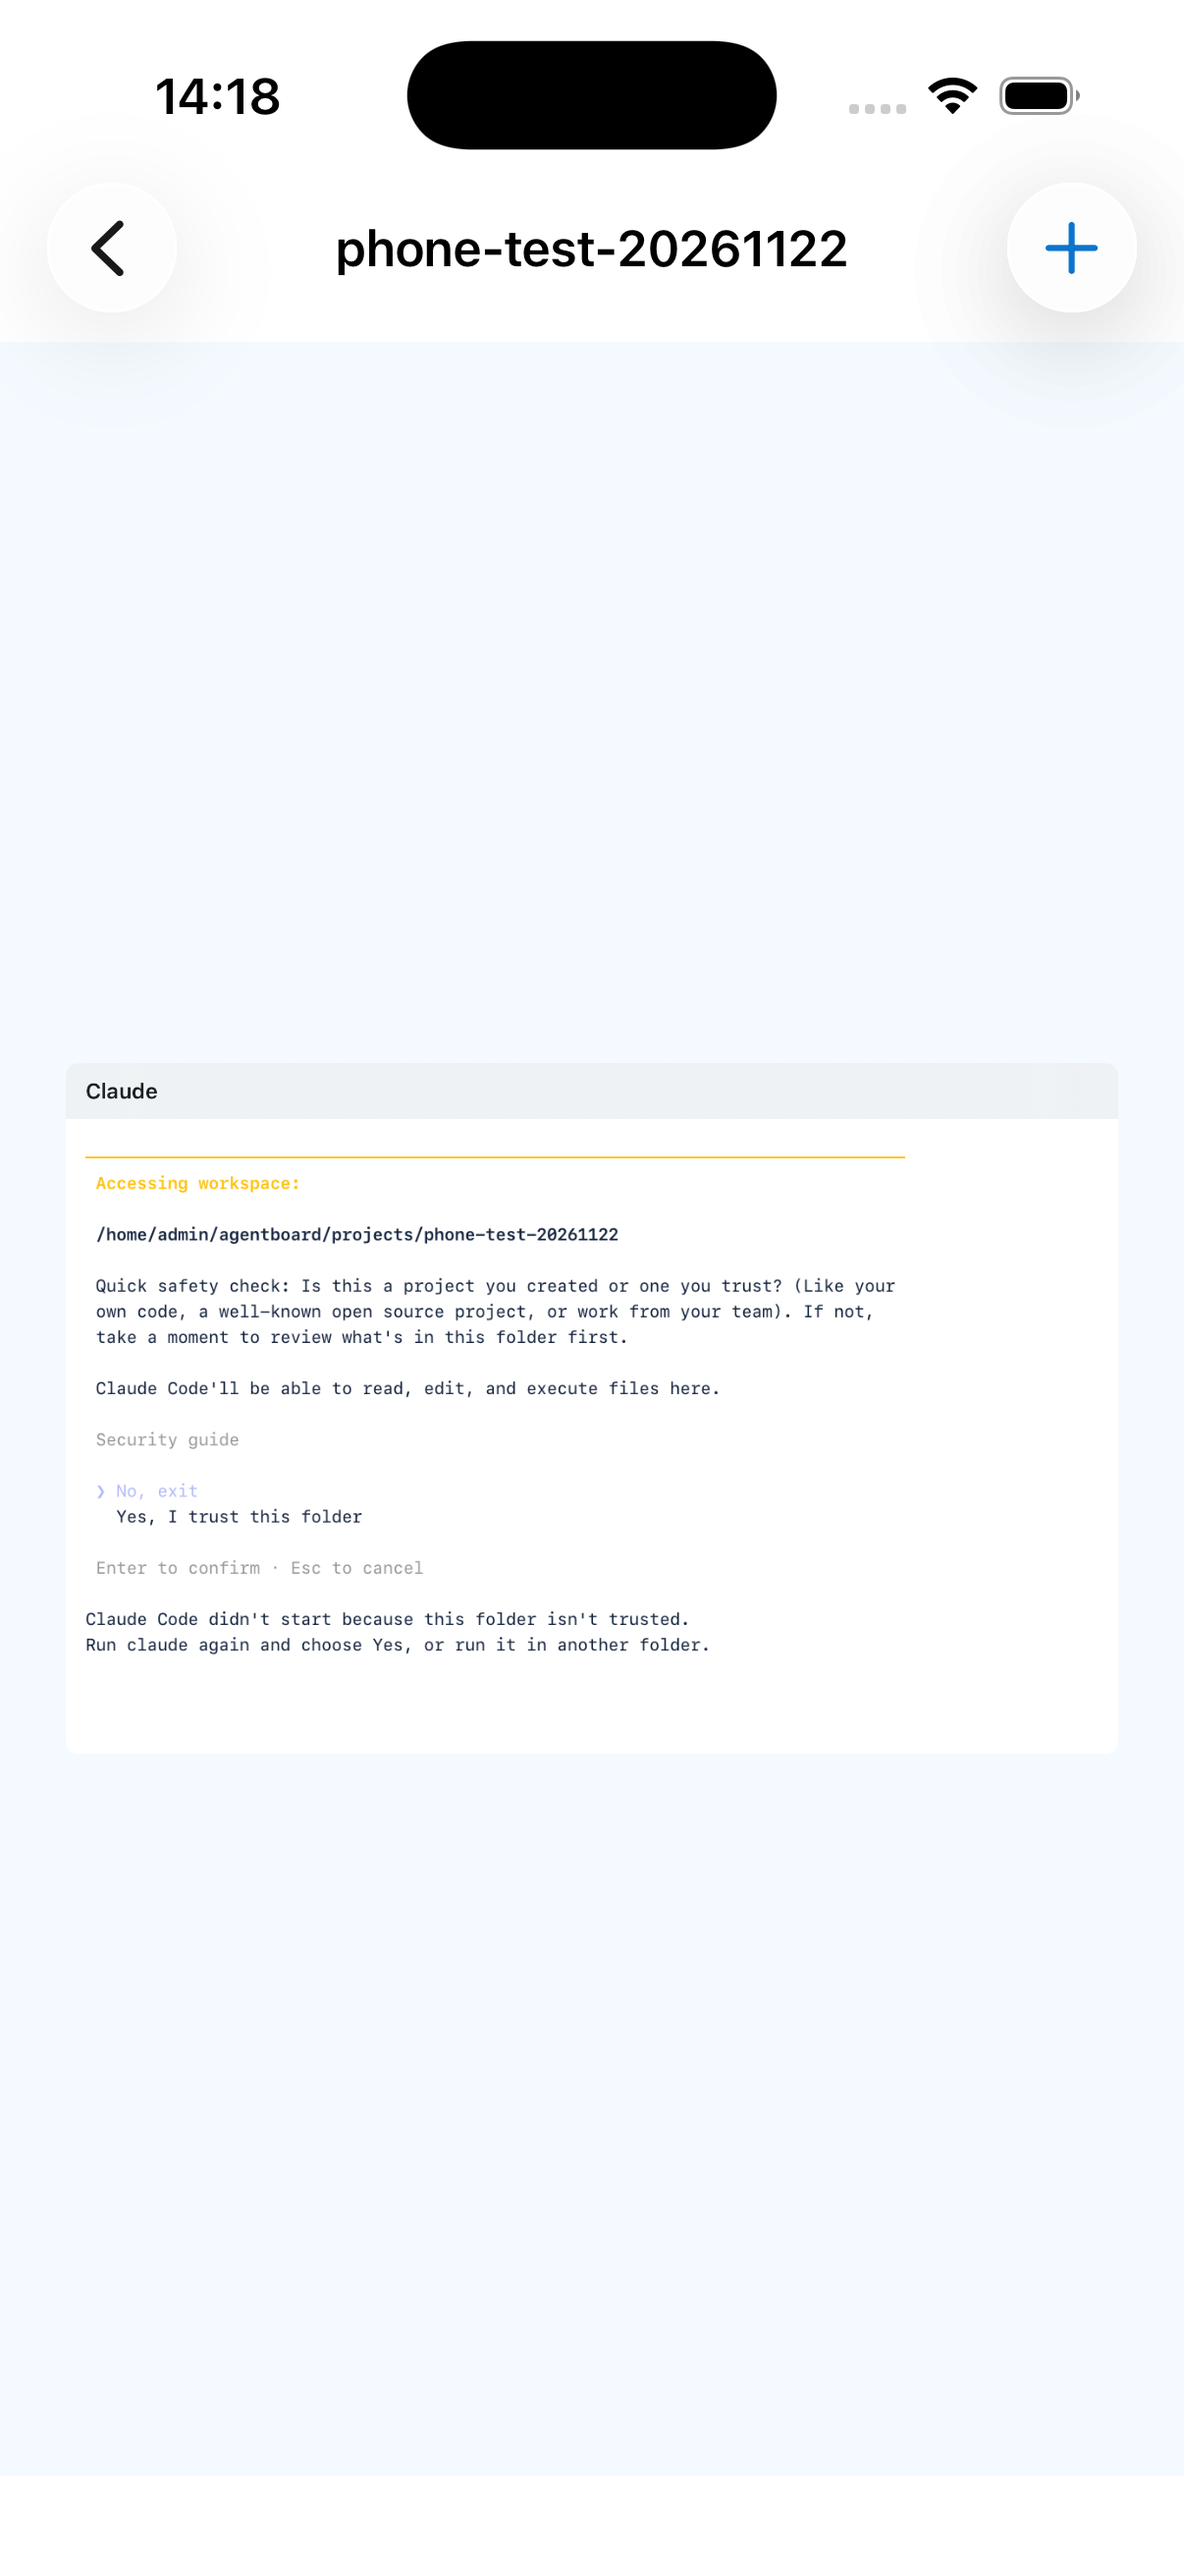
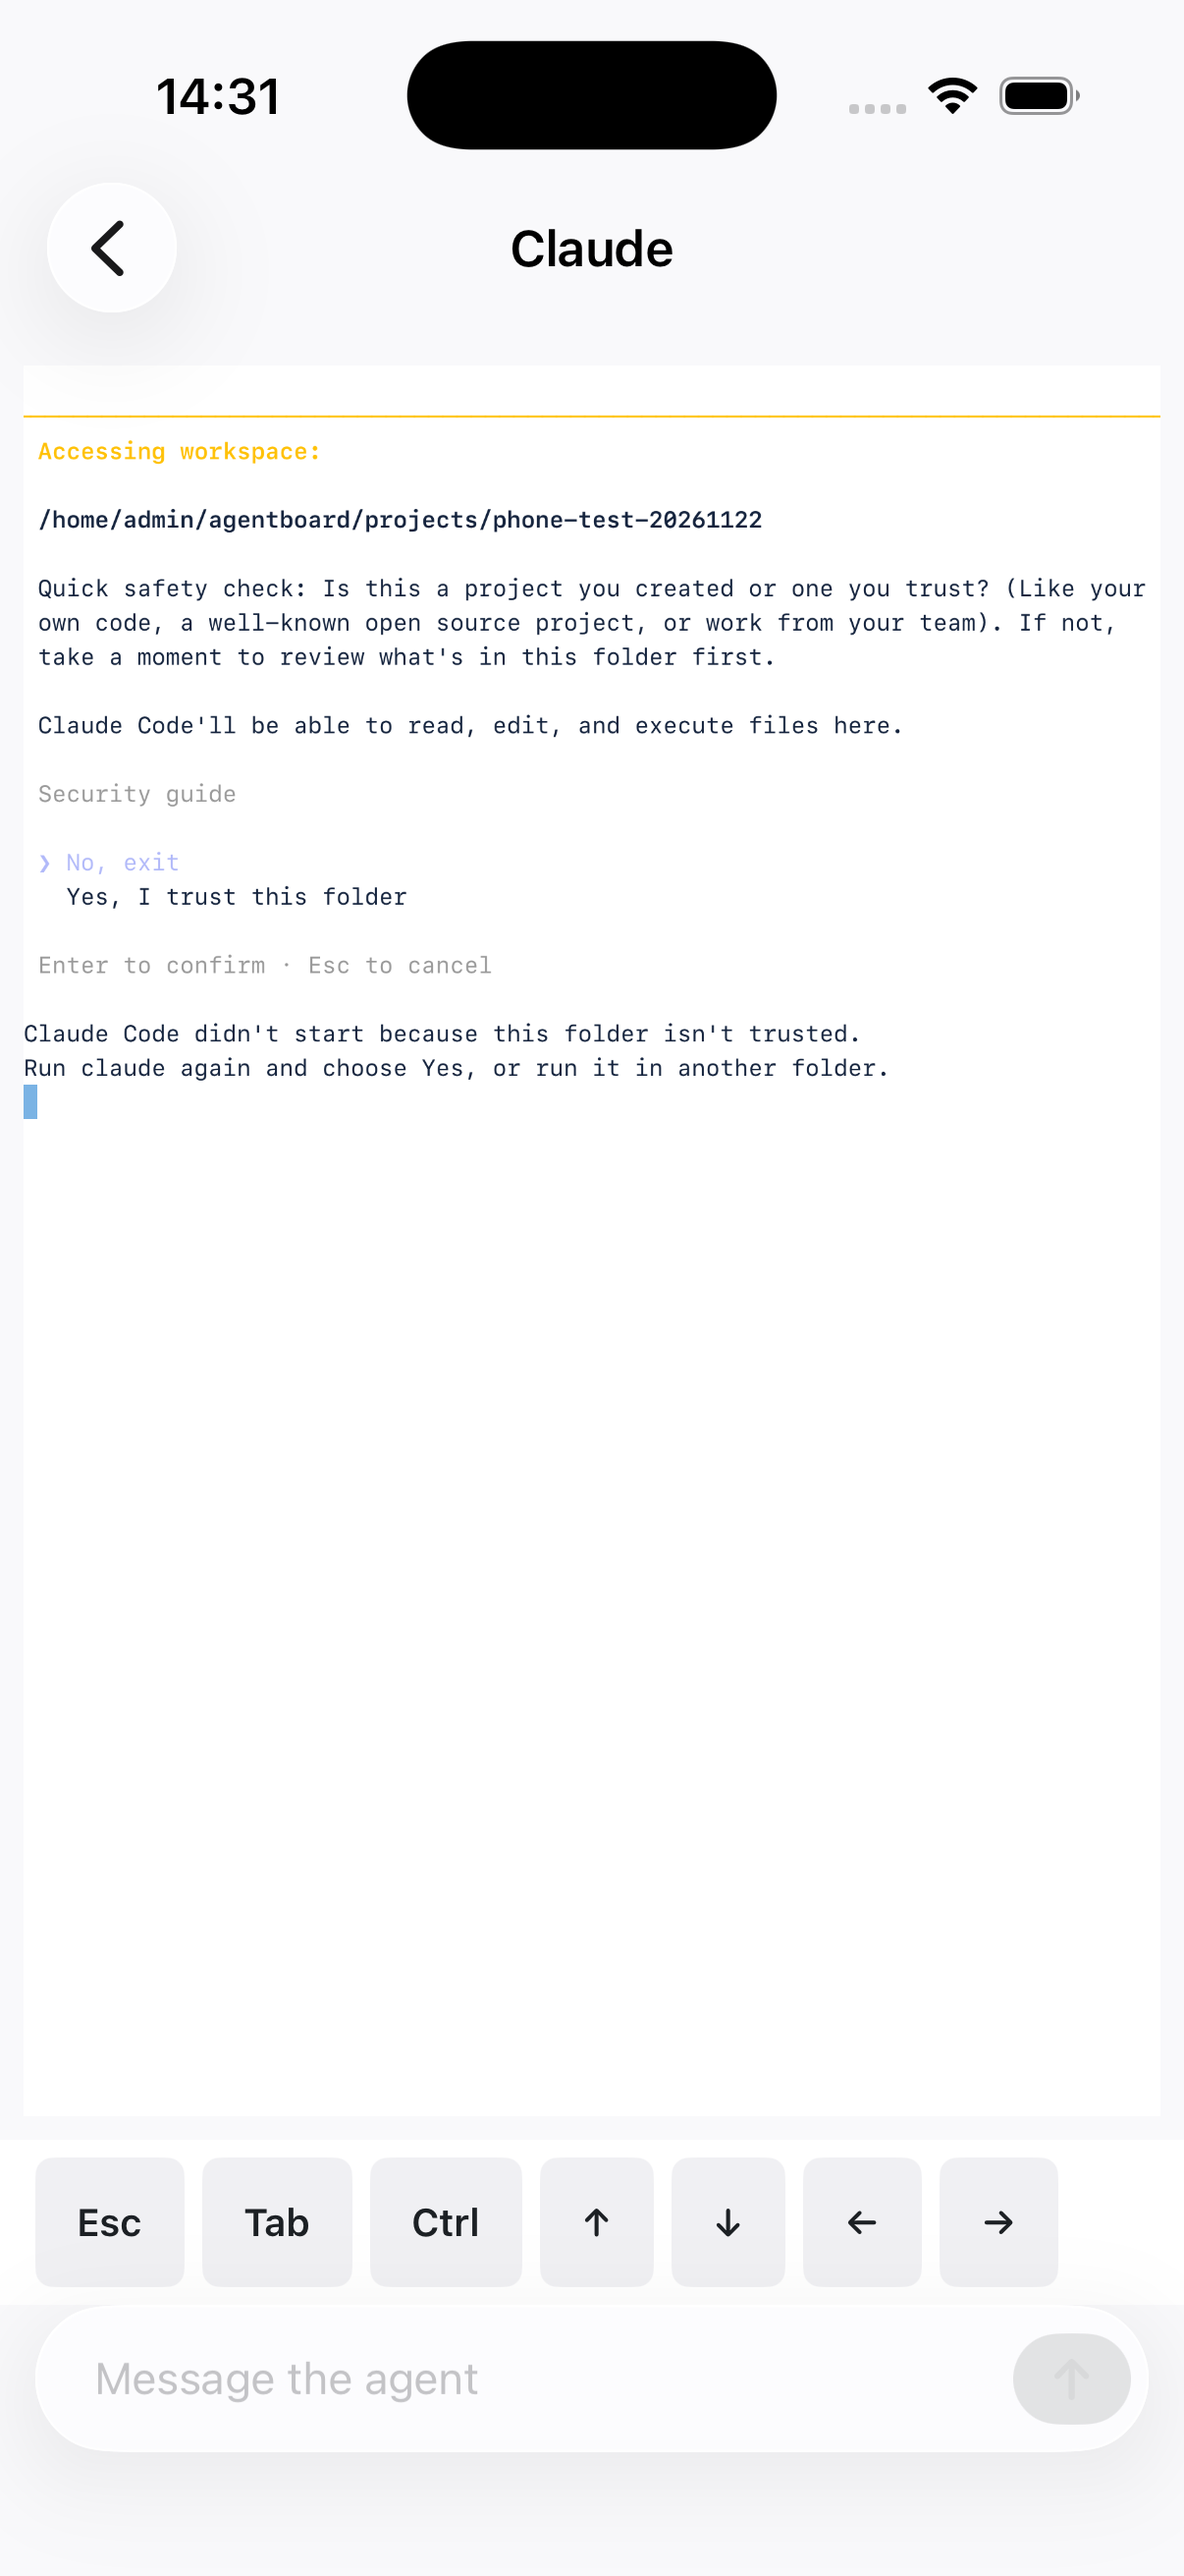
Phone: cards and post-its it adds show at once (the core echoes adds to other boards only); Start for any agent not running; terminal inset as the Mac's; live proof screenshots on the phone-test board

diff --git a/iOS/AgentBoardPhone/HostLink.swift b/iOS/AgentBoardPhone/HostLink.swift
@@ -125,6 +125,14 @@ import UIKit
 
     func send(_ request: Data) { client?.send(service: request) }
 
+    /// Sends an add, and shows it at once: the core tells every board but the sender.
+    private func add(_ request: Data, as event: String) {
+        send(request)
+        guard let object = try? JSONSerialization.jsonObject(with: request) as? [String: Any], let body = object.values.first,
+              let echoed = try? JSONSerialization.data(withJSONObject: [event: body]) else { return }
+        serviced(echoed)
+    }
+
     /// The organization the worktree's cards belong to, so a new one lands on the same board.
     private func organization(in worktree: String) -> String? {
         rawCards.values.first { $0["worktree"] as? String == worktree }?["organization"] as? String
@@ -141,9 +149,9 @@ import UIKit
     func addAgent(_ provider: any AgentProvider, to worktree: String) {
         let name = Self.unique(provider.title, among: cards(in: worktree).map(\.name))
         let id = UUID()
-        send(BoardSay.addCard(id, worktree: worktree, providerID: provider.id, name: name,
+        add(BoardSay.addCard(id, worktree: worktree, providerID: provider.id, name: name,
                               frame: CGRect(origin: freeSpot(in: worktree), size: CGSize(width: 640, height: 420)),
-                              organization: organization(in: worktree)))
+                              organization: organization(in: worktree)), as: "cardAdded")
         send(BoardSay.open(id, cols: 80, rows: 24, start: true))
     }
 
@@ -151,9 +159,9 @@ import UIKit
         let words = command.split(separator: " ").filter { !$0.contains("=") }
         let base = words.first.map { ($0 as NSString).lastPathComponent } ?? "terminal"
         let id = UUID()
-        send(BoardSay.addCard(id, worktree: worktree, providerID: "runner", name: Self.unique(base, among: cards(in: worktree).map(\.name)),
+        add(BoardSay.addCard(id, worktree: worktree, providerID: "runner", name: Self.unique(base, among: cards(in: worktree).map(\.name)),
                               frame: CGRect(origin: freeSpot(in: worktree), size: CGSize(width: 600, height: 340)),
-                              command: command, organization: organization(in: worktree)))
+                              command: command, organization: organization(in: worktree)), as: "cardAdded")
         send(BoardSay.open(id, cols: 75, rows: 20, start: true))
     }
 
@@ -165,8 +173,8 @@ import UIKit
 
     func addPostIt(_ text: String, to worktree: String) {
         let name = Self.unique("Post-it", among: postIts.filter { $0.worktree == worktree }.map(\.name))
-        send(BoardSay.addPostIt(UUID(), worktree: worktree, name: name, frame: CGRect(origin: freeSpot(in: worktree), size: CGSize(width: 340, height: 320)),
-                                text: text, organization: organization(in: worktree)))
+        add(BoardSay.addPostIt(UUID(), worktree: worktree, name: name, frame: CGRect(origin: freeSpot(in: worktree), size: CGSize(width: 340, height: 320)),
+                                text: text, organization: organization(in: worktree)), as: "postItAdded")
     }
 
     /// `base`, or `base 2`, `base 3`…, as `AgentRecord.uniqueName` picks.

diff --git a/iOS/AgentBoardPhone/TerminalScreen.swift b/iOS/AgentBoardPhone/TerminalScreen.swift
@@ -44,7 +44,7 @@ struct TerminalPage: View {
     var body: some View {
         VStack(spacing: 0) {
             MetalTerminal(session: link.session(card.id), showsCursor: true)
-                .padding(8)
+                .padding(12)  // the Mac card's inset
                 .contentShape(Rectangle())
                 .onTapGesture { typing.toggle() }
                 .background(KeyCatcher(active: $typing) { text in
@@ -69,7 +69,7 @@ struct TerminalPage: View {
         .task {
             link.open(card.id)
             while !Task.isCancelled {
-                let now = link.session(card.id).state == .stopped
+                let now = ![.running, .starting].contains(link.session(card.id).state)
                 if now != stopped { withAnimation(.smooth) { stopped = now } }
                 try? await Task.sleep(nanoseconds: 1_000_000_000)
             }
@@ -79,8 +79,8 @@ struct TerminalPage: View {
         .task {
             guard let text = DebugLaunch.value("typeText") else { return }
             try? await Task.sleep(nanoseconds: 3_000_000_000)
-            // A stopped agent is started first, as tapping Start would.
-            if link.session(card.id).state == .stopped {
+            // An agent not running is started first, as tapping Start would.
+            if ![.running, .starting].contains(link.session(card.id).state) {
                 link.send(BoardSay.restart(card.id))
                 try? await Task.sleep(nanoseconds: 15_000_000_000)
             }
@@ -126,7 +126,7 @@ struct TerminalPage: View {
             Button {
                 link.send(BoardSay.prompt(card.id, prompt))
                 prompt = ""
-            } label: { Image(systemName: "arrow.up").font(.system(size: 15, weight: .bold)) }
+            } label: { Image(systemName: "arrow.up").font(Theme.Font.label) }
                 .buttonStyle(.glassProminent)
                 .disabled(prompt.trimmingCharacters(in: .whitespacesAndNewlines).isEmpty)
                 .accessibilityLabel("Send")
